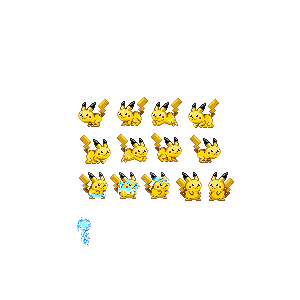
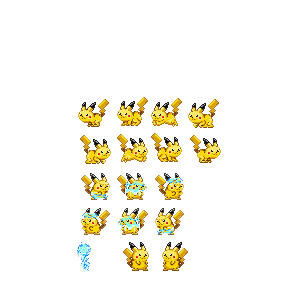
TB: 11/10/16- Pika attaque

Changed region(s): [[0.24, 0.57, 0.78, 0.9], [0.54, 0.81, 0.63, 0.9], [0.42, 0.81, 0.51, 0.9]]

diff --git a/js/scripts.js b/js/scripts.js
@@ -28,6 +28,7 @@ var etat_personnage = {
 //Definition des objets
 //var mvt_pikachu = [134, 170 ,207,248];
 var mvt_pikachu = [75, 115 ,150,188];
+var mvt_attaque = [78,114,150]
 
 
 function ObjetGraphique(x1, y1, w1, h1, x2, y2, w2, h2, img) {
@@ -37,6 +38,7 @@ function ObjetGraphique(x1, y1, w1, h1, x2, y2, w2, h2, img) {
   var speed = 1;
   var etat = etat_personnage.enVie;
   var mvt=0;
+  var mvt_a=0;
 
   function draw(ctx) {
     //ctx.fillRect(x, y, w, h);
@@ -110,11 +112,11 @@ function ObjetGraphique(x1, y1, w1, h1, x2, y2, w2, h2, img) {
     if (counterY == (4 - 1)){
       // gérer le reverse
       if (deplacement == 1){
-        //droite
+        //gauche
         yimg = 97;
       }
       else{
-        //gauche
+        //droite
         yimg = 133;
       }
     }
@@ -123,13 +125,44 @@ function ObjetGraphique(x1, y1, w1, h1, x2, y2, w2, h2, img) {
   }
 
   function attentePika(){
+    console.log(deplacement);
     if(deplacement){
-      ximg = 205;
-      yimg = 172;
+      //gauche
+      ximg = 160;
+      yimg = 241;
     }else {
-      ximg = 170;
-      yimg = 172;
+      //droite
+      ximg = 117;
+      yimg = 241;
     }
+  }
+
+  function attaquePika(){
+
+
+    if (counter == (3 - 1)){
+      ximg = mvt_attaque [mvt_a];
+      if (deplacement == 1){
+        //droite
+        yimg = 205;
+        mvt_a++;
+        if(mvt_a > 2){
+          mvt_a = 0;
+        }
+
+      }
+      else{
+        //gauche
+        yimg=172;
+        mvt_a--;
+        if(mvt_a < 0){
+          mvt_a = 2;
+        }
+      }
+
+    }
+    // update the counter
+    counter = (counter + 1) % 3;
   }
 
   return {
@@ -147,7 +180,8 @@ function ObjetGraphique(x1, y1, w1, h1, x2, y2, w2, h2, img) {
     getX2:getX2,
     setX2:setX2,
     setY2:setY2,
-    attentePika:attentePika
+    attentePika:attentePika,
+    attaquePika:attaquePika
   }
 }
 
@@ -312,7 +346,7 @@ var GF = function(){
         if(inputStates.space && (objetsMissiles.length < 1)) {
           // TOM attaque
 
-          var m = new Missile(elem.getX() + 20, elem.getY()-66, 23, 50, 73, 215, 23, 35, pikachu); // 66-> taille de pika
+          var m = new Missile(elem.getX() + 20, elem.getY()-66, 23, 50, 73, 241, 23, 35, pikachu); // 66-> taille de pika
 
         //  var m = new Missile(elem.getX(), elem.getY(), 10, 10, 136, 157, 10, 10, pikachu);
           objetsMissiles.push(m);
@@ -363,6 +397,8 @@ var GF = function(){
     deplacement=0;
     elem.setY2();
     elem.setX2();
+  }else if (inputStates.space){
+    elem.attaquePika();
   }else{
     elem.attentePika();
   }
@@ -499,6 +535,10 @@ var start = function(){
       inputStates.down = true;
     }  else if (event.keyCode === 32) {
       inputStates.space = true;
+
+      // On l'empêche de bouger
+      inputStates.left=false;
+      inputStates.right=false;
     }
   }, false);
 
